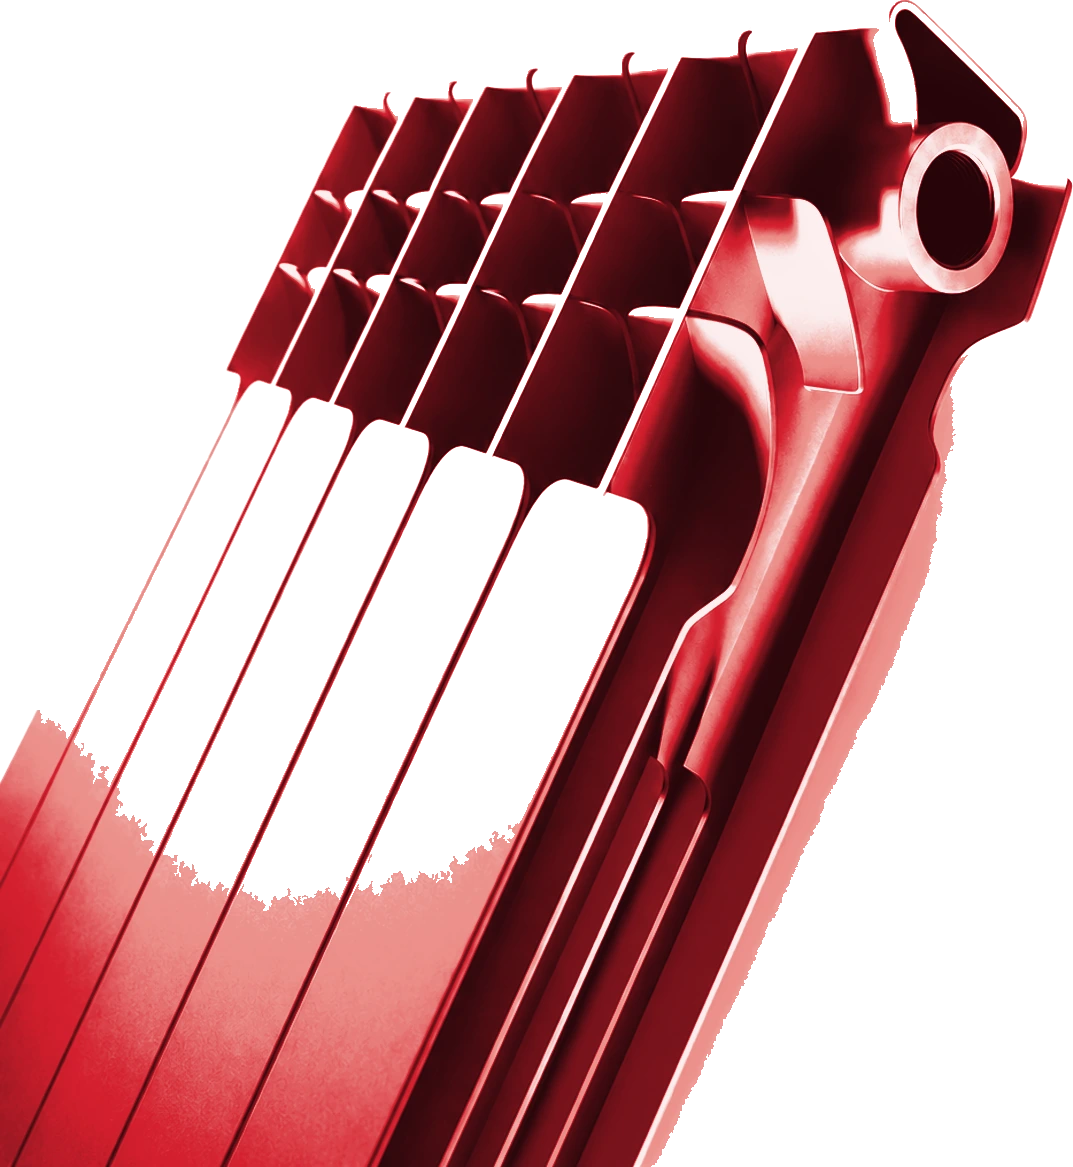
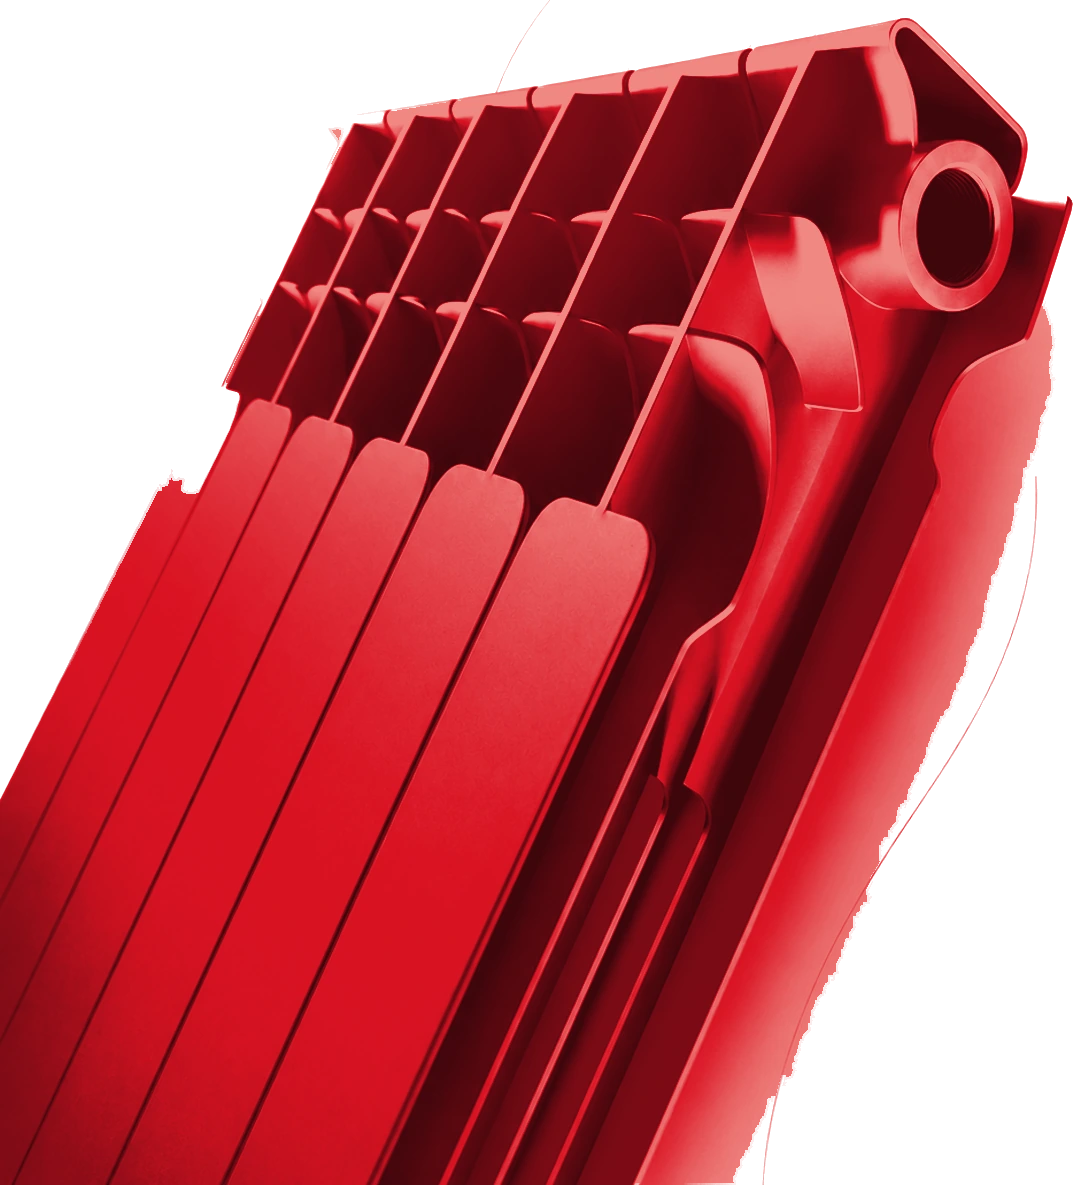
Fix the two-tone radiator in the heat section
The section read as two different products welded together: mean luminance
ran 46 at the head of the radiator and 113 at the foot, and the five front
fin faces were solid white.

Two separate causes, both in the asset.

The source is the only render in the set that is not lit flat - its softbox
falls off bottom to top - and `tint` normalises a product to the full ramp
before mapping it. Stretching that gradient across a ramp whose ends are
near-black and near-white is what produced the split. `evenLighting` divides
the low-frequency field out first, leaving the modelling on each fin and
taking away only the drift across the frame; the blur is alpha-weighted,
without which the field dives at every silhouette edge and the correction
then blows those edges out. `tintBand` narrows which part of the ramp gets
used at all, so a blown highlight lands on the lightest red rather than on
#FDEEEE.

The white faces were never a colour problem. The product runs out of frame
at the bottom, so the matte's similarity growth had a path from the border
straight up the brightest faces and cut them to alpha 0 - they were holes
showing the page through, which is why they stayed white while everything
around them turned red. Measured, this source separates cleanly: backdrop
246-251, fin faces 218-235. What let the growth cross that gap is the
default floor of `bg - 46` = 204, well inside the product. `matteFloor`
names the gap instead. `strictMatte` also plugs the holes, but by
[…]

diff --git a/content/assets.generated.ts b/content/assets.generated.ts
@@ -29,7 +29,7 @@ export const ASSETS = {
   'sections/benefits-indigo': { src: '/sections/benefits-indigo.webp', width: 1080, height: 1120, widths: [480, 720, 1080] },
   'sections/capacity-green': { src: '/sections/capacity-green.webp', width: 780, height: 1117, widths: [480, 720, 780] },
   'sections/final-white': { src: '/sections/final-white.webp', width: 1052, height: 1118, widths: [480, 720, 1052] },
-  'sections/heat-silver': { src: '/sections/heat-silver.webp', width: 1073, height: 1167, widths: [480, 720, 1073] },
+  'sections/heat-silver': { src: '/sections/heat-silver.webp', width: 1073, height: 1185, widths: [480, 720, 1073] },
   'sections/interior': { src: '/sections/interior.webp', width: 650, height: 560, widths: [480, 650] },
   'sections/interior-product': { src: '/sections/interior-product.webp', width: 524, height: 516, widths: [480, 524] },
   'sections/qc-white': { src: '/sections/qc-white.webp', width: 570, height: 1455, widths: [480, 570] },
